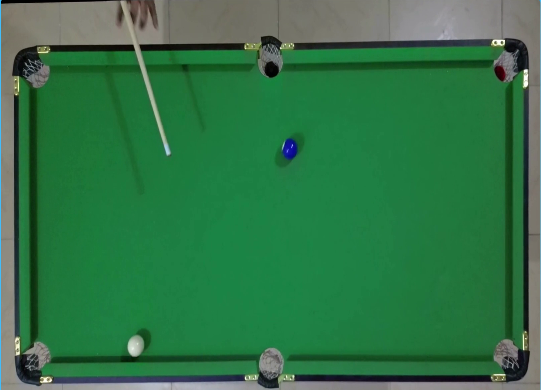
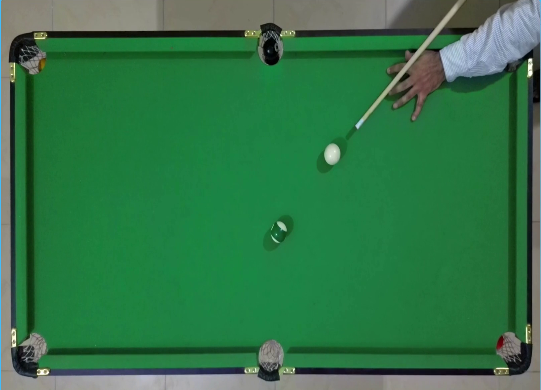
refactoring

diff --git a/main.py b/main.py
@@ -31,6 +31,12 @@ def stackImages(scale,imgArray):
         hor= np.hstack(imgArray)
         ver = hor
     return ver
+
+def colorFilter(img, lower, upper):
+    imgHSV = cv2.cvtColor(img,cv2.COLOR_BGR2HSV)
+    mask = cv2.inRange(imgHSV,lower,upper)
+    imgFiltered = cv2.bitwise_and(img,img,mask=mask)
+    return imgFiltered
         
 def imgProcessing(img):
     imgGray = cv2.cvtColor(img, cv2.COLOR_BGR2GRAY)
@@ -39,11 +45,9 @@ def imgProcessing(img):
     return imgCanny
 
 def findTaco(img):
-    imgHSV = cv2.cvtColor(img,cv2.COLOR_BGR2HSV)
     lower = np.array([82,17,182])
     upper = np.array([99,88,255])
-    mask = cv2.inRange(imgHSV,lower,upper)
-    imgFiltered = cv2.bitwise_and(img,img,mask=mask)
+    imgFiltered = colorFilter(img, lower, upper)
     imgProcessed = imgProcessing(imgFiltered)
     contours, hierarchy = cv2.findContours(imgProcessed, cv2.RETR_EXTERNAL, cv2.CHAIN_APPROX_NONE)
     for i in contours:
@@ -60,11 +64,9 @@ def findTaco(img):
 
 def findCueBall(img):
     croppedImg = img[51:349, 31:510]
-    imgHSV = cv2.cvtColor(croppedImg,cv2.COLOR_BGR2HSV)
     lower = np.array([40,9,107])
     upper = np.array([72,96,210])
-    mask = cv2.inRange(imgHSV,lower,upper)
-    imgFiltered = cv2.bitwise_and(croppedImg,croppedImg,mask=mask)
+    imgFiltered = colorFilter(croppedImg, lower, upper)
     imgProcessed = imgProcessing(imgFiltered)
     contours, hierarchy = cv2.findContours(imgProcessed, cv2.RETR_EXTERNAL, cv2.CHAIN_APPROX_NONE)
     for i in contours:
@@ -78,6 +80,12 @@ def findCueBall(img):
             if objCor >= 8:
                 cv2.putText(imgCropped, "Bola branca", (x+(w//2)+40, y+(h//2)+61), cv2.FONT_HERSHEY_SIMPLEX, 0.5,  (255,255,255), 2)
 
+def findColoredBalls(img):
+    lower = np.array([13,133,132])
+    upper = np.array([66,255,255])
+    imgFiltered = colorFilter(img, lower, upper)
+    return imgFiltered
+
 frameWidth = 640
 frameHeight = 480
 cap = cv2.VideoCapture("resources/shots.mp4")
@@ -88,7 +96,8 @@ while True:
     cv2.imwrite("imgColors.png", imgCropped)
     findTaco(imgCropped)
     findCueBall(imgCropped)
-    #finalImg = stackImages(1, [imgRaw, cueBall])
-    cv2.imshow("Result", imgRaw)
-    if cv2.waitKey(3) & 0xFF == ord('q'):
+    coloredBall = findColoredBalls(imgCropped)
+    finalImg = stackImages(1, [imgRaw, coloredBall])
+    cv2.imshow("Result", finalImg)
+    if cv2.waitKey(5) & 0xFF == ord('q'):
         break
